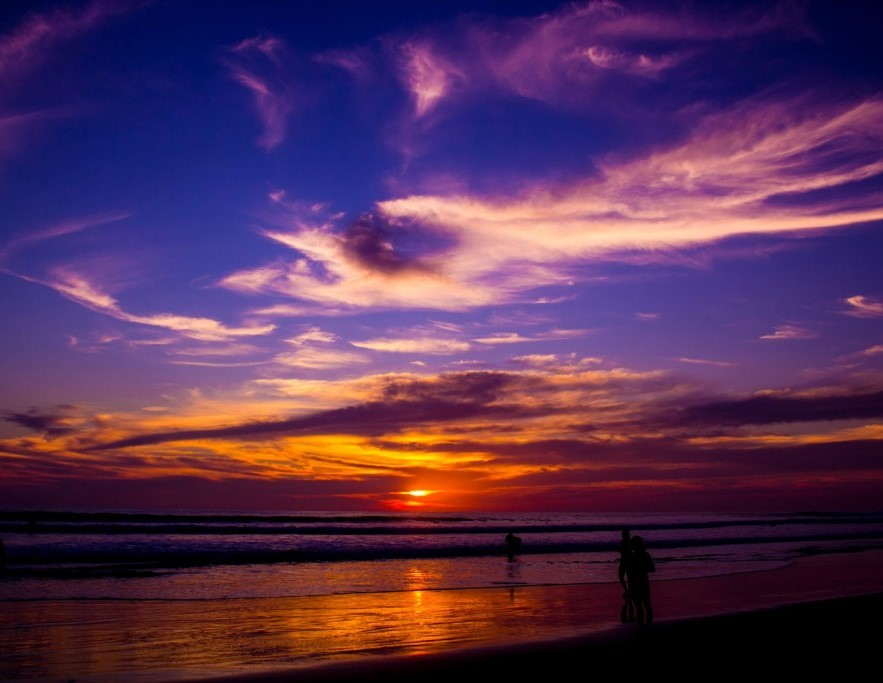
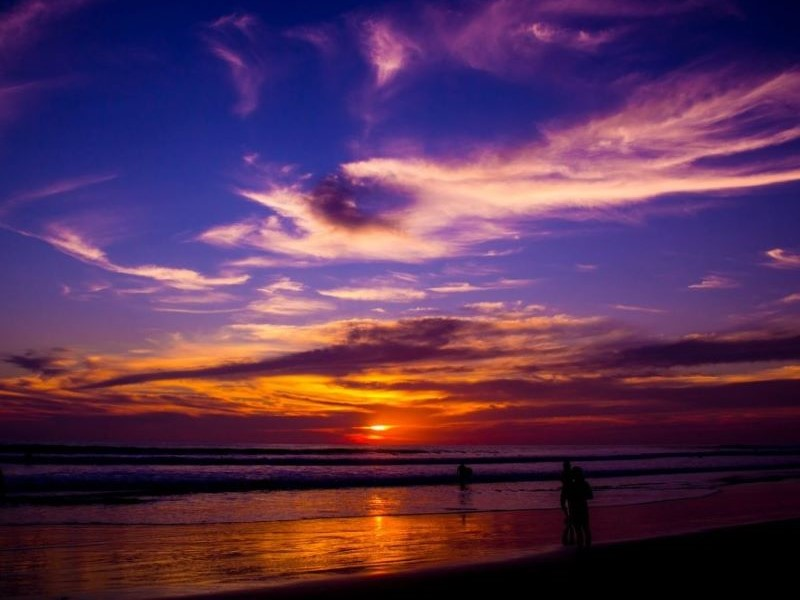
Imagenes cortadas, responsive cards

diff --git a/src/style.css b/src/style.css
@@ -136,11 +136,11 @@ dd
   padding-top: 20px;
   padding-left: 20px;
   color: #404040;
+  align-items: center;
 }
 
-.divStars dt {
-  display: flex;
-  display: flex-start;
+.divStars {
+  margin-top: 1vh;
   padding-left: 20px;
   color: #0791BE;
 }
@@ -172,12 +172,22 @@ dd
 }
 
 #bntProvincia {
+  display: flex;
   float: right;
   float: inline-end;
   color: #fff;
   font-weight: 600;
   text-transform: uppercase;
   border: #F56960;
+  align-items: center;
+}
+
+#bntReadMore {
+  color: #A9B5C1;
+  font-weight: 600;
+  text-transform: uppercase;
+  border: #fff;
+  background-color: #fff;
 }
 
 ul {
@@ -234,22 +244,127 @@ media
   .top-page {
     height: 40vh;
   }
+
+  h2 {
+    margin: 20px;
+    margin-left: 80px;
+  }
+
+  .divName dd {
+    width: 100%;
+    height: 4vh;
+    padding-left: 20px;
+  }
+
+  .imagine-cutted {
+    width: 64vh;
+    height: 37vh;
+    border-radius: 5px;
+  }
+
+  .card {
+    width: 74vh;
+    height: 71vh;
+    flex-direction: row;
+    margin-left: 2vh;
+    margin-bottom: 2vh;
+    padding-top: 2vh;
+  }
+
+  .divDescription dd {
+    width: 100%;
+    height: 6.6vh;
+    padding-left: 18px;
+    padding-top: 1vh;
+  }
+
+  #bntProvincia {
+    height: 7vh;
+    width: 28vh;
+    text-align: right;
+    padding-left: 9vh;
+    transform: translateY(-203px) translateX(-5px);
+    clip-path: polygon(39% 0, 100% 0, 100% 100%, 0% 100%);
+    border-bottom-right-radius: 5px;
+  }
+
+  #bntReadMore {
+    height: 5vh;
+    width: 24vh;
+    text-align: center;
+    transform: translateX(126px);
+  }
+
+  .divPrecio dt {
+    align-items: center;
+    width: 100%;
+    height: 5.3vh;
+    padding-left: 18px;
+  }
 }
 
 @media (min-width: 767px) and (max-width: 990px) {
   .top-page {
     height: 60vh;
   }
+
+  .divName dd {
+    width: 44%;
+    height: 7vh;
+    padding-left: 20px;
+  }
+
+  .imagine-cutted {
+    width: 57vh;
+    height: 39vh;
+    float: right;
+    clip-path: polygon(39% 0, 100% 0, 100% 100%, 0% 100%);
+    overflow: hidden;
+  }
+
+  .card {
+    margin-bottom: 10px;
+    width: 108vh;
+    height: 39vh;
+  }
+
+  .divDescription dd {
+    width: 44%;
+    height: 10.8vh;
+    padding-left: 16px;
+  }
+
+  #bntProvincia {
+    height: 7vh;
+    width: 26vh;
+    margin-right: -24px;
+    text-align: left;
+    padding-left: 4vh;
+  }
+
+  #bntReadMore {
+    height: 7vh;
+    width: 26vh;
+    padding-left: 3vh;
+    text-align: center;
+  }
+
+  .divPrecio dt {
+    align-items: center;
+    width: 44%;
+    height: 5.3vh;
+    padding-left: 16px;
+  }
 }
 
-@media (min-width: 990px) {
+@media (min-width: 991px) {
   .top-page {
     height: 95vh;
   }
 
   .imagine-cutted {
-    width: 340px;
-    height: 240px;
+    width: 54vh;
+    height: 40vh;
     float: right;
     clip-path: polygon(39% 0, 100% 0, 100% 100%, 0% 100%);
     overflow: hidden;
@@ -263,14 +378,21 @@ media
 
   .divDescription dd {
     width: 44%;
-    height: 10.4vh;
+    height: 9.2vh;
     padding-left: 16px;
   }
+
   #bntProvincia {
     height: 7vh;
     width: 24vh;
     margin-right: -28px;
     text-align: left;
-    padding-left: 3vh;
+    padding-left: 2vh;
+  }
+
+  #bntReadMore {
+    padding-left: 10vh;
+    text-align: center;
+    padding-top: 1vh;
   }
 }

diff --git a/src/view.js b/src/view.js
@@ -9,10 +9,10 @@ export const renderItems = (data) => {
     <dl>
     <div class="divImage"><img src=${element.imageUrl} alt=${element.name} class="imagine-cutted"/></div>
     <div class="divName"><dd itemprop="name">${element.name}</dd></div>
-    <div class="divStars"> <img src="icono1.png" alt="Icono 1">  <img src="icono1.png" alt="Icono 1">  <img src="icono1.png" alt="Icono 1">  <img src="icono1.png" alt="Icono 1"></div>
+    <div class="divStars"> <img src="https://raw.githubusercontent.com/Maddyrojas/DEV014-Dataverse/01c79ef9f70a89e36ef48ce985bc36e527598bef/Imagenes%20Dataverse/05-icon-stars.svg" alt="Star 1">  <img src="https://raw.githubusercontent.com/Maddyrojas/DEV014-Dataverse/01c79ef9f70a89e36ef48ce985bc36e527598bef/Imagenes%20Dataverse/05-icon-stars.svg" alt="Star 2">  <img src="https://raw.githubusercontent.com/Maddyrojas/DEV014-Dataverse/01c79ef9f70a89e36ef48ce985bc36e527598bef/Imagenes%20Dataverse/05-icon-stars.svg" alt="Star 3">  <img src="https://raw.githubusercontent.com/Maddyrojas/DEV014-Dataverse/01c79ef9f70a89e36ef48ce985bc36e527598bef/Imagenes%20Dataverse/05-icon-stars.svg" alt="Star 4"></div>
     <div class="divPrecio"><dt itemprop="gastoPromedio">$${element.gastoPromedio}<span>gasto promedio diario</span></dt></div>
     <div class="divDescription"><dt></dt><dd itemprop="shortDescription">${element.shortDescription}</dd></div>
-    <button type="button" id="bntProvincia">${element.location}</button>
+    <button type="button" id="bntReadMore">Leer Más</button> <button type="button" id="bntProvincia">${element.location}</button>
     </dl>
     `;
     ul.appendChild(list);
